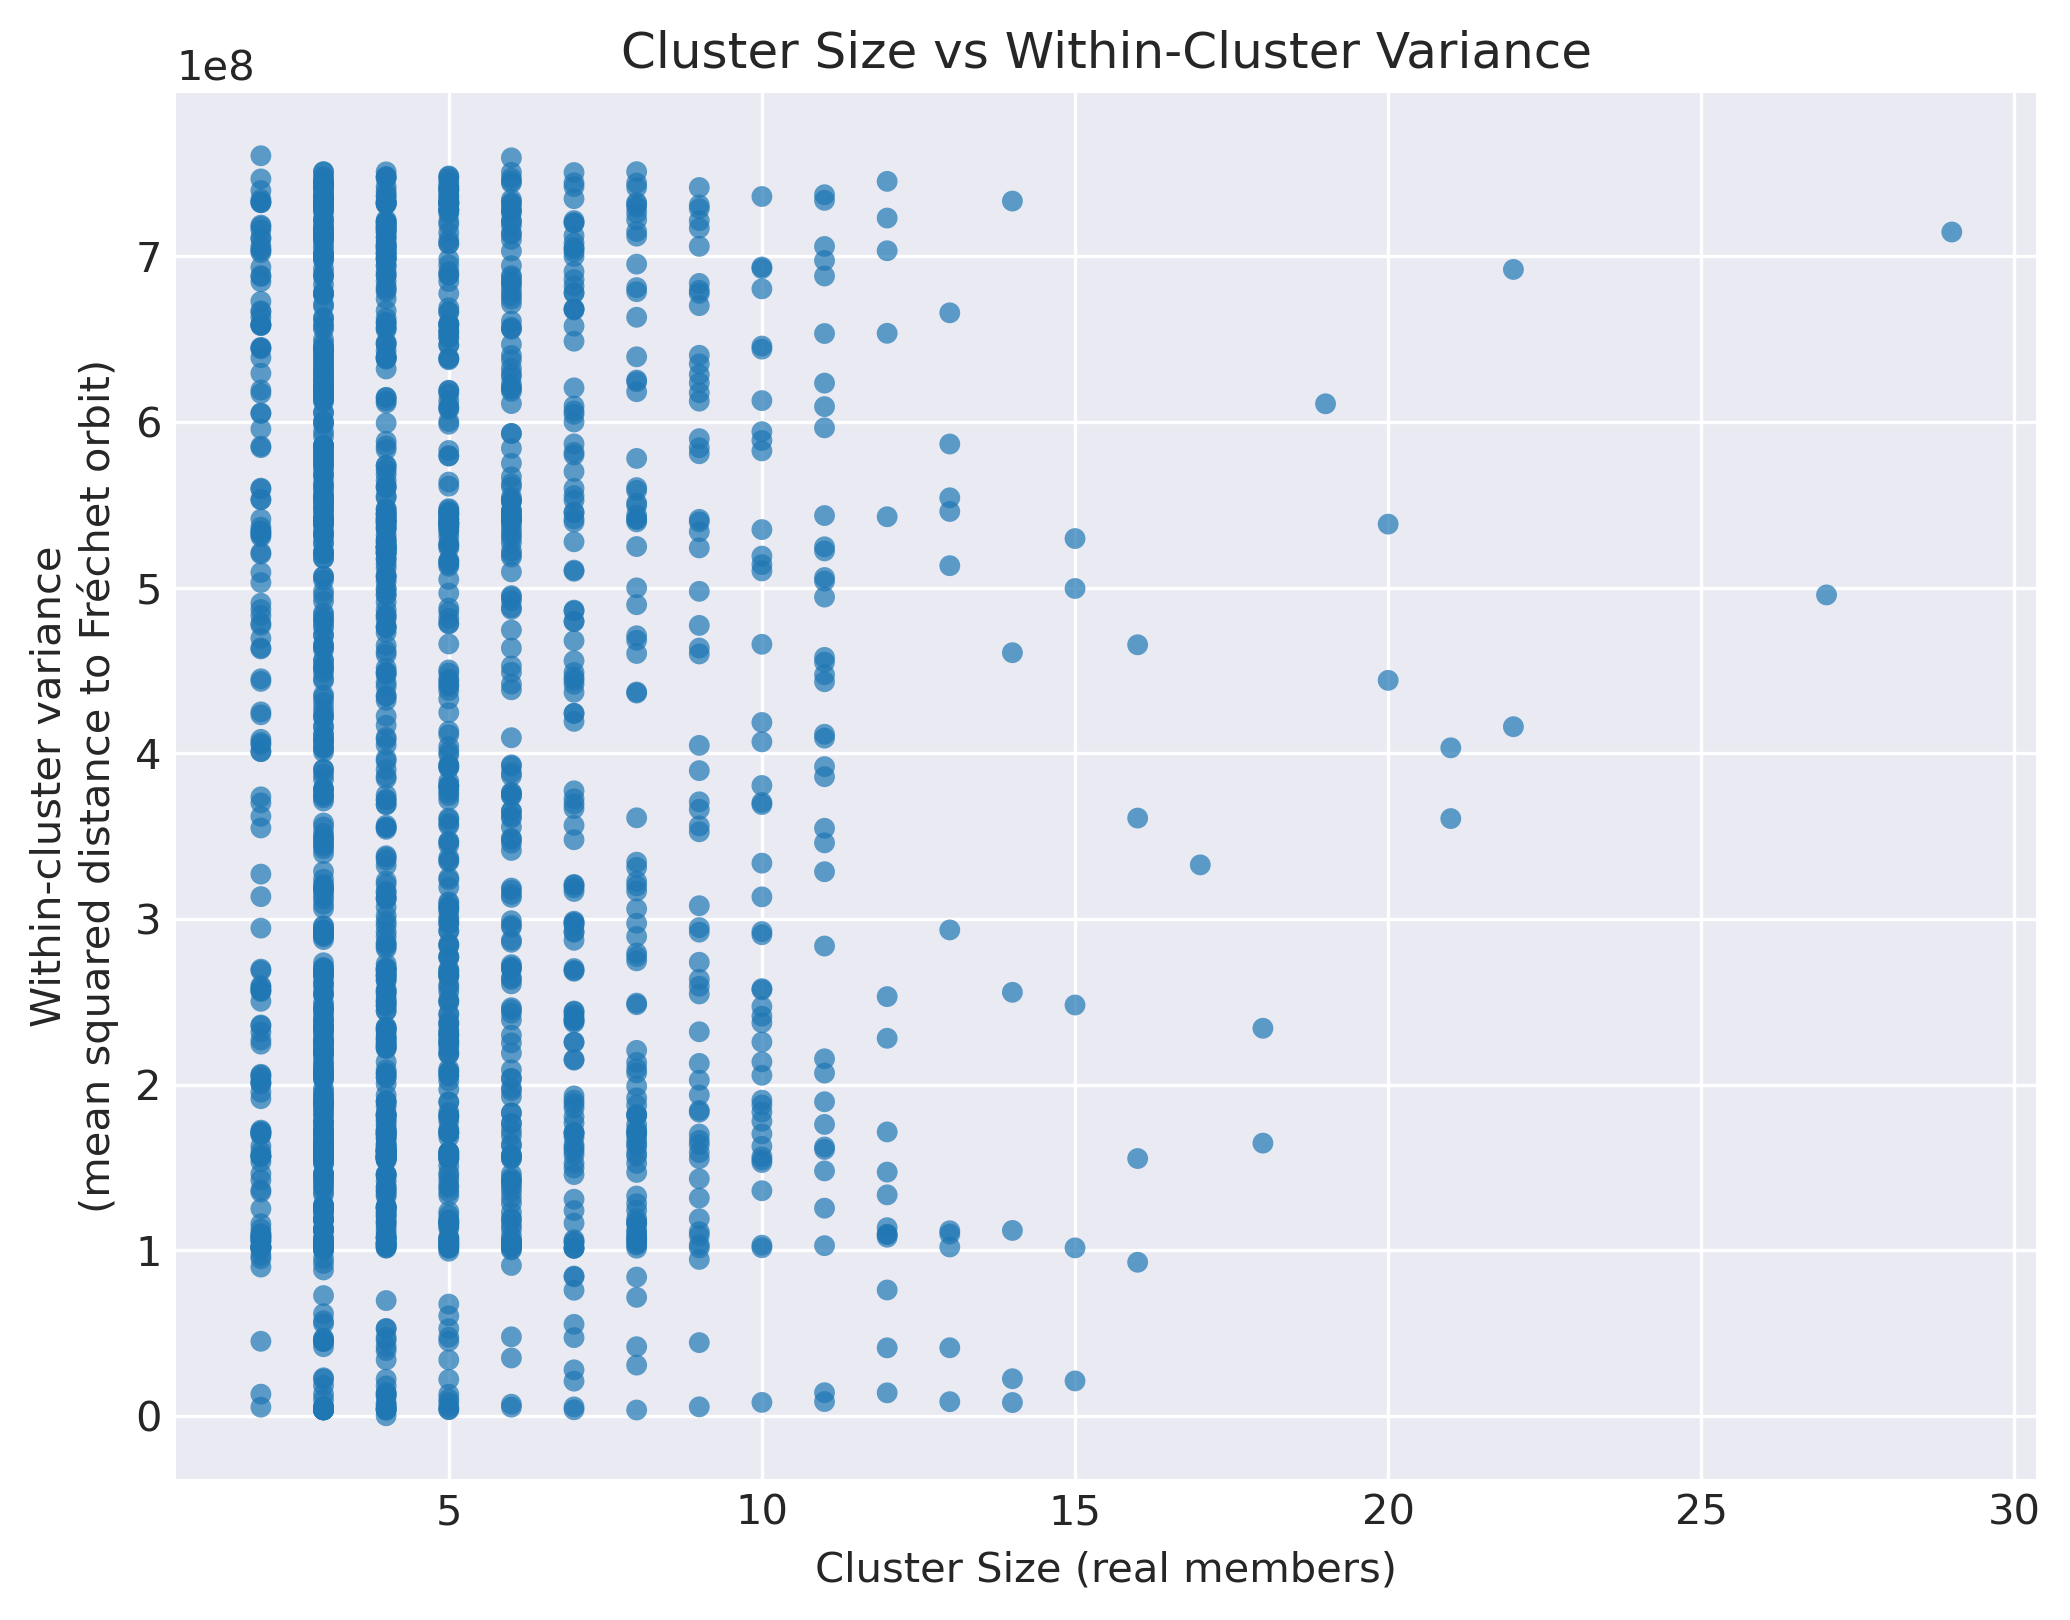
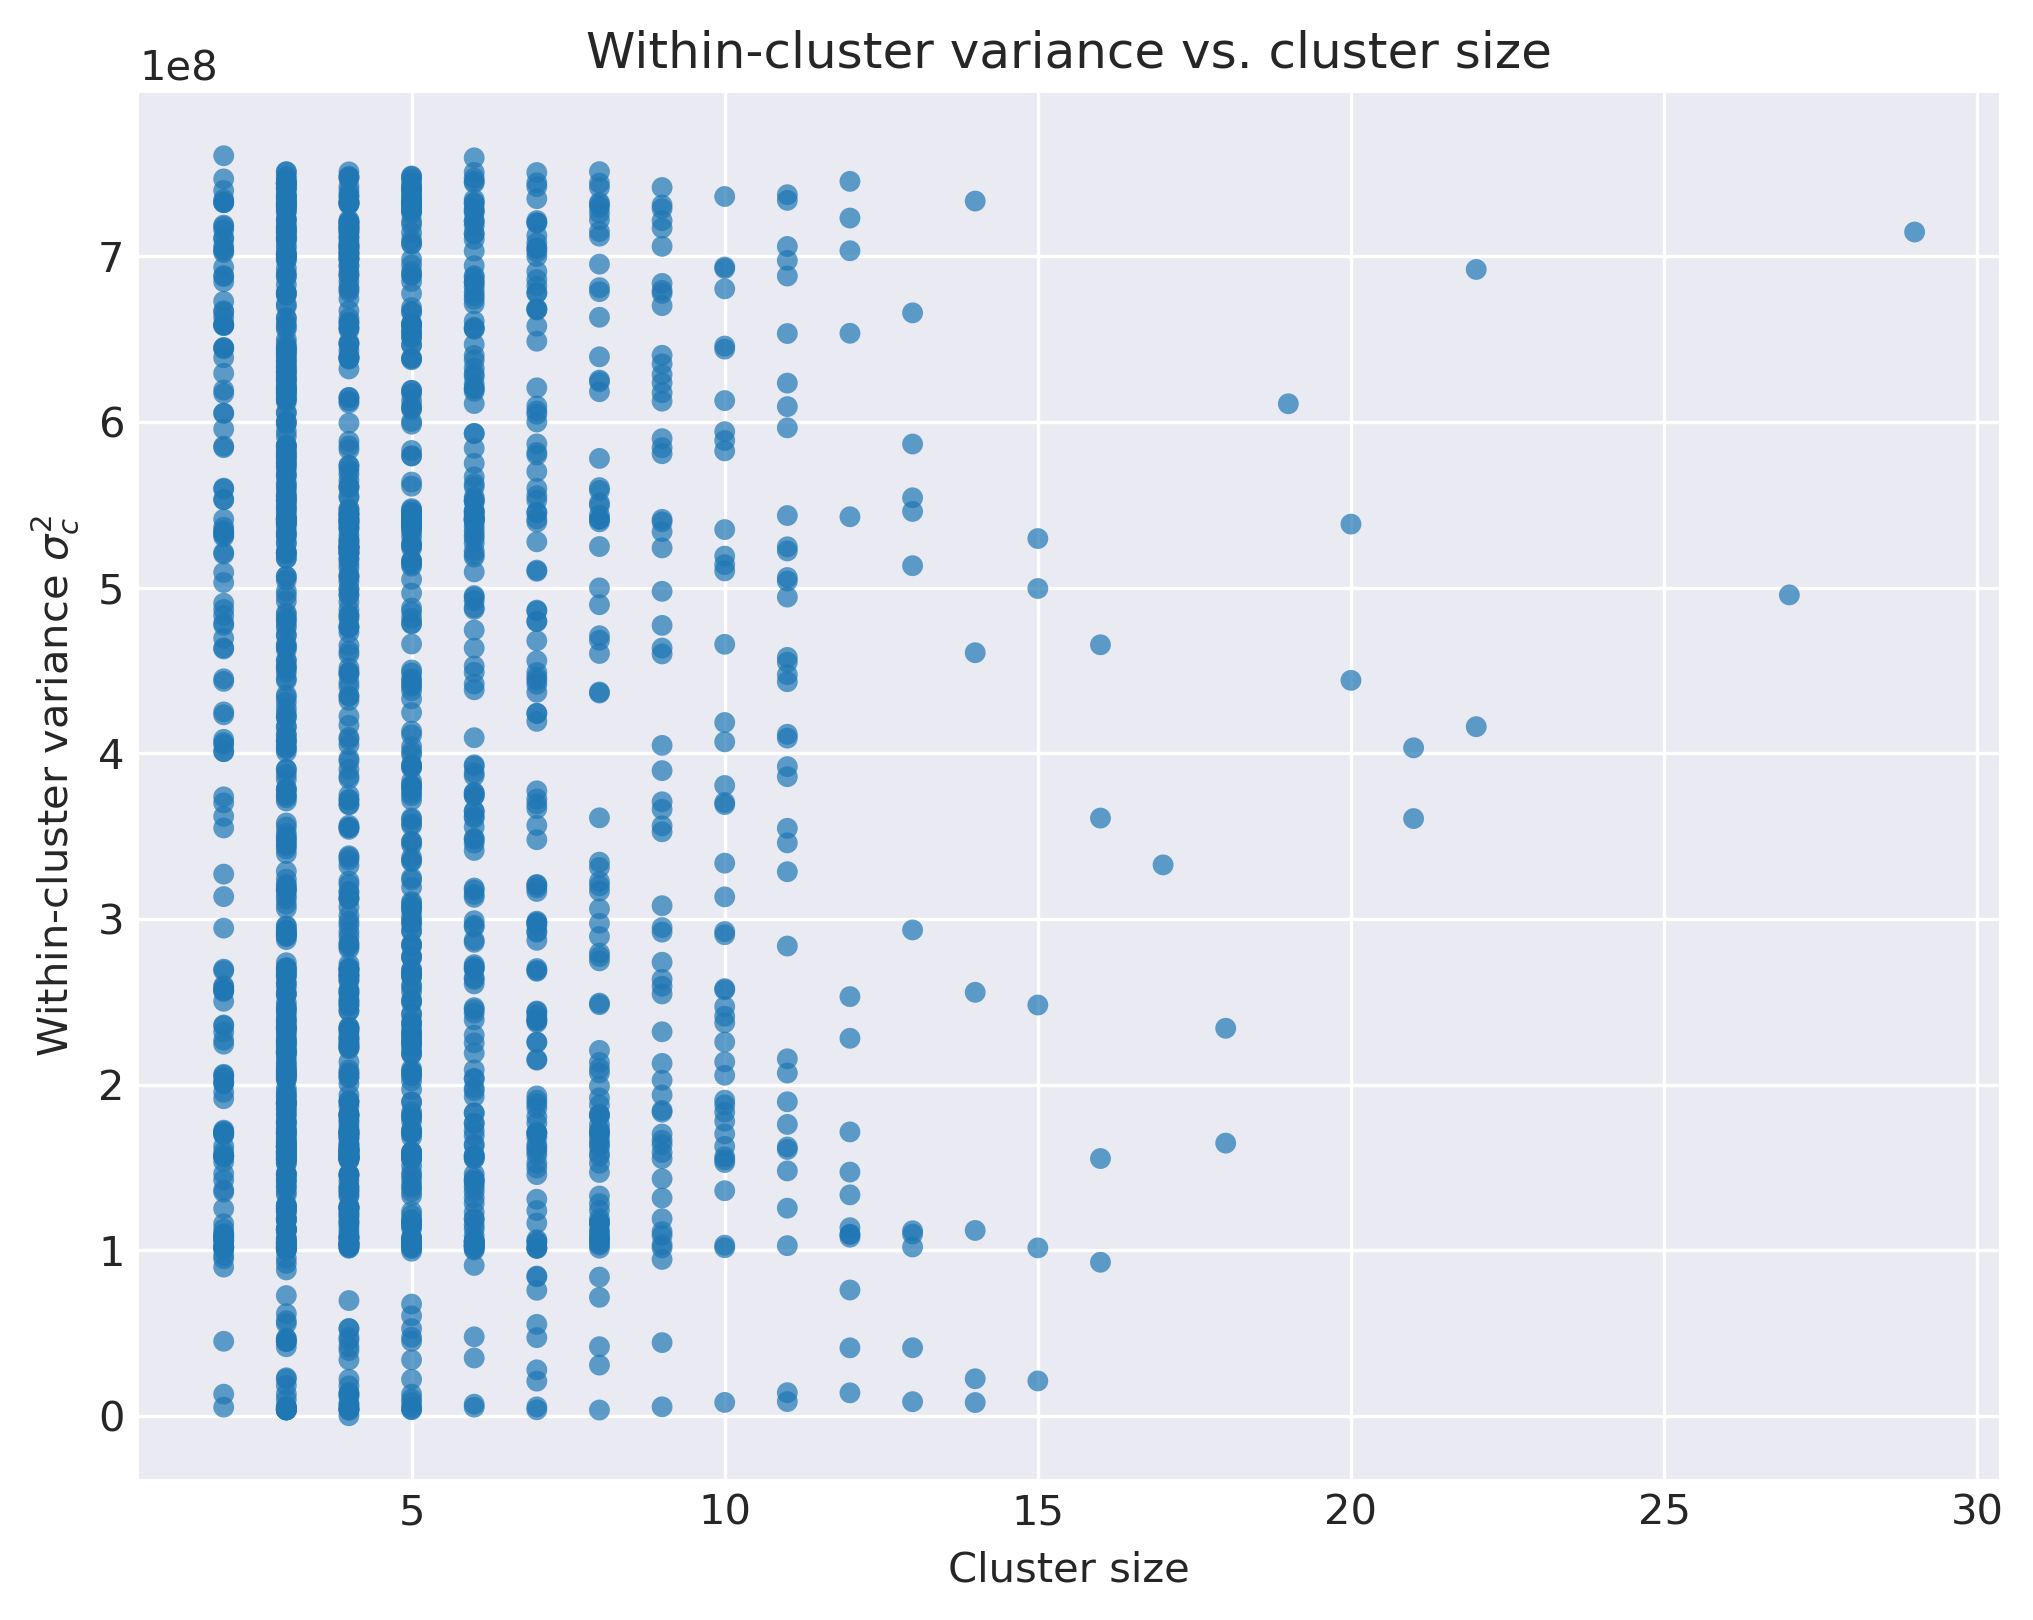
Nicely plotting the within-cluster variance now.

diff --git a/metrics/analysis.py b/metrics/analysis.py
@@ -450,10 +450,10 @@ class Analysis:
             color="C0",
             edgecolor="none",
         )
-
-        ax.set_xlabel("Cluster Size (real members)")
-        ax.set_ylabel("Within-cluster variance\n(mean squared distance to Fréchet orbit)")
-        ax.set_title("Cluster Size vs Within-Cluster Variance")
+        
+        ax.set_xlabel("Cluster size")
+        ax.set_ylabel(r"Within-cluster variance $\sigma_c^2$")
+        ax.set_title(r"Within-cluster variance vs. cluster size")
 
         out_path = self.output_dir / save_name
         fig.savefig(out_path, dpi=300, bbox_inches="tight", facecolor="white")
